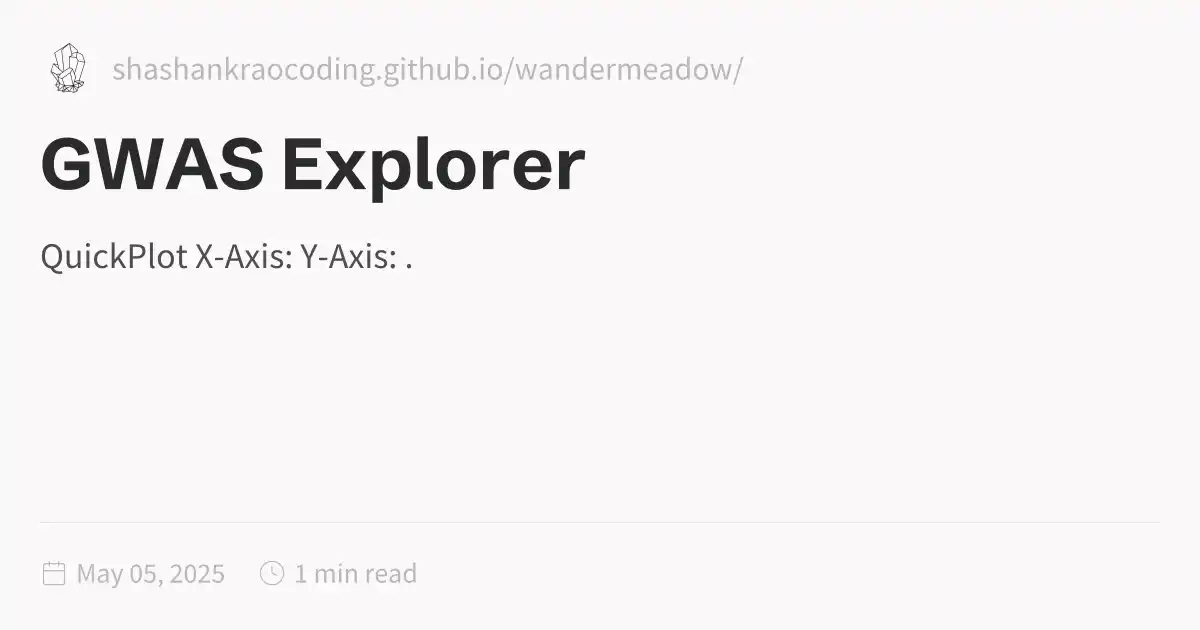
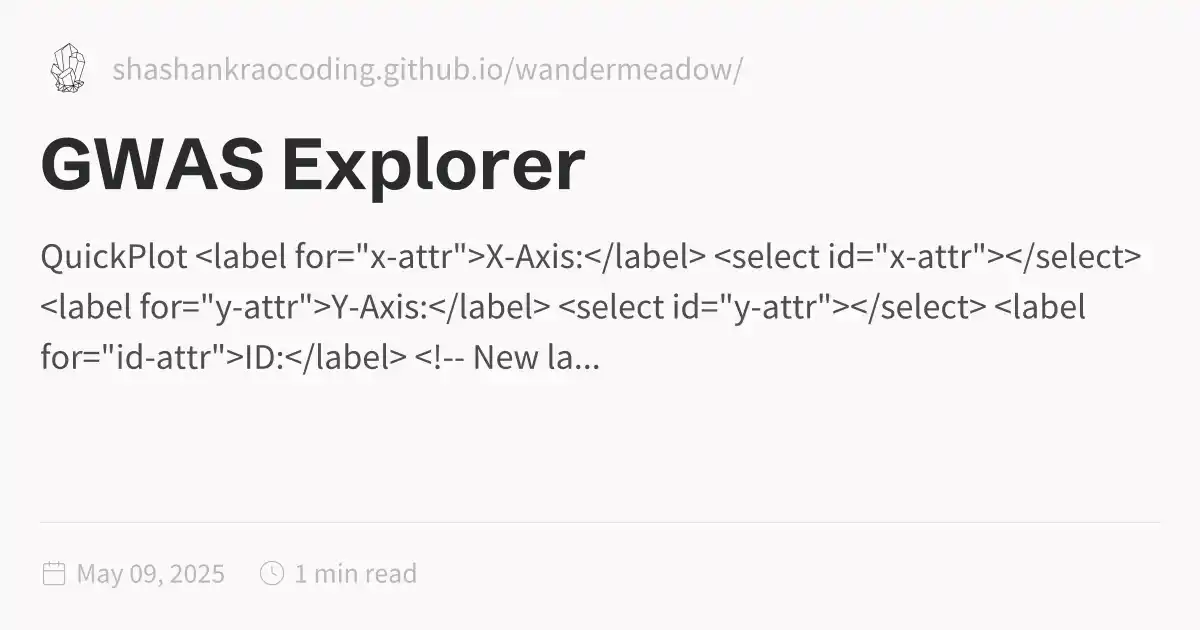
Update public folder - 2025-05-09\_857

Changed region(s): [[0.0308, 0.4524, 0.925, 0.5127], [0.0308, 0.5429, 0.4933, 0.6032], [0.1542, 0.3921, 0.9558, 0.4222]]

diff --git a/Projects/index.html b/Projects/index.html
@@ -116,6 +116,6 @@ pre:hover > .expand-button {
   padding: 0 12px;
   font-size: 14px;
 }
[2 lines of base64/hex data omitted]
 </script><script type="module">function f(i,e){if(!i)return;function r(o){o.target===this&&(o.preventDefault(),o.stopPropagation(),e())}function t(o){o.key.startsWith("Esc")&&(o.preventDefault(),e())}i?.addEventListener("click",r),window.addCleanup(()=>i?.removeEventListener("click",r)),document.addEventListener("keydown",t),window.addCleanup(()=>document.removeEventListener("keydown",t))}function y(i){for(;i.firstChild;)i.removeChild(i.firstChild)}var h=class{constructor(e,r){this.container=e;this.content=r;this.setupEventListeners(),this.setupNavigationControls(),this.resetTransform()}isDragging=!1;startPan={x:0,y:0};currentPan={x:0,y:0};scale=1;MIN_SCALE=.5;MAX_SCALE=3;cleanups=[];setupEventListeners(){let e=this.onMouseDown.bind(this),r=this.onMouseMove.bind(this),t=this.onMouseUp.bind(this),o=this.resetTransform.bind(this);this.container.addEventListener("mousedown",e),document.addEventListener("mousemove",r),document.addEventListener("mouseup",t),window.addEventListener("resize",o),this.cleanups.push(()=>this.container.removeEventListener("mousedown",e),()=>document.removeEventListener("mousemove",r),()=>document.removeEventListener("mouseup",t),()=>window.removeEventListener("resize",o))}cleanup(){for(let e of this.cleanups)e()}setupNavigationControls(){let e=document.createElement("div");e.className="mermaid-controls";let r=this.createButton("+",()=>this.zoom(.1)),t=this.createButton("-",()=>this.zoom(-.1)),o=this.createButton("Reset",()=>this.resetTransform());e.appendChild(t),e.appendChild(o),e.appendChild(r),this.container.appendChild(e)}createButton(e,r){let t=document.createElement("button");return t.textContent=e,t.className="mermaid-control-button",t.addEventListener("click",r),window.addCleanup(()=>t.removeEventListener("click",r)),t}onMouseDown(e){e.button===0&&(this.isDragging=!0,this.startPan={x:e.clientX-this.currentPan.x,y:e.clientY-this.currentPan.y},this.container.style.cursor="grabbing")}onMouseMove(e){this.isDragging&&(e.preventDefault(),this.currentPan={x:e.clientX-this.startPan.x,y:e.clientY-this.startPan.y},this.updateTransform())}onMouseUp(){this.isDragging=!1,this.container.style.cursor="grab"}zoom(e){let r=Math.min(Math.max(this.scale+e,this.MIN_SCALE),this.MAX_SCALE),t=this.content.getBoundingClientRect(),o=t.width/2,n=t.height/2,c=r-this.scale;this.currentPan.x-=o*c,this.currentPan.y-=n*c,this.scale=r,this.updateTransform()}updateTransform(){this.content.style.transform=`translate(${this.currentPan.x}px, ${this.currentPan.y}px) scale(${this.scale})`}resetTransform(){this.scale=1;let e=this.content.querySelector("svg");this.currentPan={x:e.getBoundingClientRect().width/2,y:e.getBoundingClientRect().height/2},this.updateTransform()}},C=["--secondary","--tertiary","--gray","--light","--lightgray","--highlight","--dark","--darkgray","--codeFont"],E;document.addEventListener("nav",async()=>{let e=document.querySelector(".center").querySelectorAll("code.mermaid");if(e.length===0)return;E||=await import("https://cdnjs.cloudflare.com/ajax/libs/mermaid/11.4.0/mermaid.esm.min.mjs");let r=E.default,t=new WeakMap;for(let n of e)t.set(n,n.innerText);async function o(){for(let s of e){s.removeAttribute("data-processed");let a=t.get(s);a&&(s.innerHTML=a)}let n=C.reduce((s,a)=>(s[a]=window.getComputedStyle(document.documentElement).getPropertyValue(a),s),{}),c=document.documentElement.getAttribute("saved-theme")==="dark";r.initialize({startOnLoad:!1,securityLevel:"loose",theme:c?"dark":"base",themeVariables:{fontFamily:n["--codeFont"],primaryColor:n["--light"],primaryTextColor:n["--darkgray"],primaryBorderColor:n["--tertiary"],lineColor:n["--darkgray"],secondaryColor:n["--secondary"],tertiaryColor:n["--tertiary"],clusterBkg:n["--light"],edgeLabelBackground:n["--highlight"]}}),await r.run({nodes:e})}await o(),document.addEventListener("themechange",o),window.addCleanup(()=>document.removeEventListener("themechange",o));for(let n=0;n<e.length;n++){let v=function(){let g=l.querySelector("#mermaid-space"),m=l.querySelector(".mermaid-content");if(!m)return;y(m);let w=c.querySelector("svg").cloneNode(!0);m.appendChild(w),l.classList.add("active"),g.style.cursor="grab",u=new h(g,m)},M=function(){l.classList.remove("active"),u?.cleanup(),u=null},c=e[n],s=c.parentElement,a=s.querySelector(".clipboard-button"),d=s.querySelector(".expand-button"),p=window.getComputedStyle(a),L=a.offsetWidth+parseFloat(p.marginLeft||"0")+parseFloat(p.marginRight||"0");d.style.right=`calc(${L}px + 0.3rem)`,s.prepend(d);let l=s.querySelector("#mermaid-container");if(!l)return;let u=null;d.addEventListener("click",v),f(l,M),window.addCleanup(()=>{u?.cleanup(),d.removeEventListener("click",v)})}});
 </script><script src="https://cdn.jsdelivr.net/npm/katex@0.16.11/dist/contrib/copy-tex.min.js" type="application/javascript"></script><script src="../postscript.js" type="module"></script></html>

diff --git a/Projects/GWAS-Explorer.html b/Projects/GWAS-Explorer.html
@@ -1,5 +1,5 @@
 <!DOCTYPE html>
-<html lang="en"><head><title>GWAS Explorer</title><meta charset="utf-8"/><link rel="preconnect" href="https://fonts.googleapis.com"/><link rel="preconnect" href="https://fonts.gstatic.com"/><link rel="stylesheet" href="https://fonts.googleapis.com/css2?family=Schibsted Grotesk:wght@400;700&amp;family=Source Sans Pro:ital,wght@0,400;0,600;1,400;1,600&amp;family=IBM Plex Mono:wght@400;600&amp;display=swap"/><link rel="preconnect" href="https://cdnjs.cloudflare.com" crossorigin="anonymous"/><meta name="viewport" content="width=device-width, initial-scale=1.0"/><meta name="og:site_name" content="Wander Meadow"/><meta property="og:title" content="GWAS Explorer"/><meta property="og:type" content="website"/><meta name="twitter:card" content="summary_large_image"/><meta name="twitter:title" content="GWAS Explorer"/><meta name="twitter:description" content="QuickPlot X-Axis: Y-Axis: ."/><meta property="og:description" content="QuickPlot X-Axis: Y-Axis: ."/><meta property="og:image:alt" content="QuickPlot X-Axis: Y-Axis: ."/><meta property="twitter:domain" content="shashankraocoding.github.io/wandermeadow/"/><meta property="og:url" content="https://shashankraocoding.github.io/wandermeadow/Projects/GWAS-Explorer"/><meta property="twitter:url" content="https://shashankraocoding.github.io/wandermeadow/Projects/GWAS-Explorer"/><link rel="icon" href="../static/icon.png"/><meta name="description" content="QuickPlot X-Axis: Y-Axis: ."/><meta name="generator" content="Quartz"/><link href="../index.css" rel="stylesheet" type="text/css" spa-preserve/><style>.expand-button {
+<html lang="en"><head><title>GWAS Explorer</title><meta charset="utf-8"/><link rel="preconnect" href="https://fonts.googleapis.com"/><link rel="preconnect" href="https://fonts.gstatic.com"/><link rel="stylesheet" href="https://fonts.googleapis.com/css2?family=Schibsted Grotesk:wght@400;700&amp;family=Source Sans Pro:ital,wght@0,400;0,600;1,400;1,600&amp;family=IBM Plex Mono:wght@400;600&amp;display=swap"/><link rel="preconnect" href="https://cdnjs.cloudflare.com" crossorigin="anonymous"/><meta name="viewport" content="width=device-width, initial-scale=1.0"/><meta name="og:site_name" content="Wander Meadow"/><meta property="og:title" content="GWAS Explorer"/><meta property="og:type" content="website"/><meta name="twitter:card" content="summary_large_image"/><meta name="twitter:title" content="GWAS Explorer"/><meta name="twitter:description" content="QuickPlot &lt;label for=&quot;x-attr&quot;>X-Axis:&lt;/label> &lt;select id=&quot;x-attr&quot;>&lt;/select> &lt;label for=&quot;y-attr&quot;>Y-Axis:&lt;/label> &lt;select id=&quot;y-attr&quot;>&lt;/select> &lt;label for=&quot;id-attr&quot;>ID:&lt;/label> &lt;!-- New la..."/><meta property="og:description" content="QuickPlot &lt;label for=&quot;x-attr&quot;>X-Axis:&lt;/label> &lt;select id=&quot;x-attr&quot;>&lt;/select> &lt;label for=&quot;y-attr&quot;>Y-Axis:&lt;/label> &lt;select id=&quot;y-attr&quot;>&lt;/select> &lt;label for=&quot;id-attr&quot;>ID:&lt;/label> &lt;!-- New la..."/><meta property="og:image:alt" content="QuickPlot &lt;label for=&quot;x-attr&quot;>X-Axis:&lt;/label> &lt;select id=&quot;x-attr&quot;>&lt;/select> &lt;label for=&quot;y-attr&quot;>Y-Axis:&lt;/label> &lt;select id=&quot;y-attr&quot;>&lt;/select> &lt;label for=&quot;id-attr&quot;>ID:&lt;/label> &lt;!-- New la..."/><meta property="twitter:domain" content="shashankraocoding.github.io/wandermeadow/"/><meta property="og:url" content="https://shashankraocoding.github.io/wandermeadow/Projects/GWAS-Explorer"/><meta property="twitter:url" content="https://shashankraocoding.github.io/wandermeadow/Projects/GWAS-Explorer"/><link rel="icon" href="../static/icon.png"/><meta name="description" content="QuickPlot &lt;label for=&quot;x-attr&quot;>X-Axis:&lt;/label> &lt;select id=&quot;x-attr&quot;>&lt;/select> &lt;label for=&quot;y-attr&quot;>Y-Axis:&lt;/label> &lt;select id=&quot;y-attr&quot;>&lt;/select> &lt;label for=&quot;id-attr&quot;>ID:&lt;/label> &lt;!-- New la..."/><meta name="generator" content="Quartz"/><link href="../index.css" rel="stylesheet" type="text/css" spa-preserve/><style>.expand-button {
   position: absolute;
   display: flex;
   float: right;
@@ -116,17 +116,25 @@ pre:hover > .expand-button {
   padding: 0 12px;
   font-size: 14px;
 }
[2 lines of base64/hex data omitted]
     <h1 id="quickplot">QuickPlot<a role="anchor" aria-hidden="true" tabindex="-1" data-no-popover="true" href="#quickplot" class="internal"><svg width="18" height="18" viewBox="0 0 24 24" fill="none" stroke="currentColor" stroke-width="2" stroke-linecap="round" stroke-linejoin="round"><path d="M10 13a5 5 0 0 0 7.54.54l3-3a5 5 0 0 0-7.07-7.07l-1.72 1.71"></path><path d="M14 11a5 5 0 0 0-7.54-.54l-3 3a5 5 0 0 0 7.07 7.07l1.71-1.71"></path></svg></a></h1>
     <input type="file" id="file-input"/>
-    <label for="x-attr">X-Axis:</label>
-    <select id="x-attr"></select>
-    <label for="y-attr">Y-Axis:</label>
-    <select id="y-attr"></select>
-    <div id="message"></div>
-    <pre id="file-content"></pre>
-    <canvas id="myChart" width="400" height="200"></canvas>
-    <script src="https://shashankraocoding.github.io/wandermeadow/Website-Resources/Javascript/quickPlot.js"></script>
+<pre><code>&lt;label for=&quot;x-attr&quot;>X-Axis:&lt;/label>
+&lt;select id=&quot;x-attr&quot;>&lt;/select>
+
+&lt;label for=&quot;y-attr&quot;>Y-Axis:&lt;/label>
+&lt;select id=&quot;y-attr&quot;>&lt;/select>
+
+&lt;label for=&quot;id-attr&quot;>ID:&lt;/label> &lt;!-- New label for the ID selector -->
+&lt;select id=&quot;id-attr&quot;>&lt;/select> &lt;!-- New selector for ID -->
+
+&lt;div id=&quot;message&quot;>&lt;/div>
+&lt;pre id=&quot;file-content&quot;>&lt;/pre>
+
+&lt;canvas id=&quot;myChart&quot; width=&quot;400&quot; height=&quot;200&quot;>&lt;/canvas>
+
+&lt;script src=&quot;https://shashankraocoding.github.io/wandermeadow/Website-Resources/Javascript/quickPlot.js&quot;>&lt;/script>
+</code></pre>
 </div></article><hr/><div class="page-footer"></div></div><div class="right sidebar"><div class="graph"><h3>Graph View</h3><div class="graph-outer"><div class="graph-container" data-cfg="{&quot;drag&quot;:true,&quot;zoom&quot;:true,&quot;depth&quot;:1,&quot;scale&quot;:1.1,&quot;repelForce&quot;:0.5,&quot;centerForce&quot;:0.3,&quot;linkDistance&quot;:30,&quot;fontSize&quot;:0.6,&quot;opacityScale&quot;:1,&quot;showTags&quot;:true,&quot;removeTags&quot;:[],&quot;focusOnHover&quot;:false,&quot;enableRadial&quot;:false}"></div><button class="global-graph-icon" aria-label="Global Graph"><svg version="1.1" xmlns="http://www.w3.org/2000/svg" xmlns:xlink="http://www.w3.org/1999/xlink" x="0px" y="0px" viewBox="0 0 55 55" fill="currentColor" xml:space="preserve"><path d="M49,0c-3.309,0-6,2.691-6,6c0,1.035,0.263,2.009,0.726,2.86l-9.829,9.829C32.542,17.634,30.846,17,29,17
                 s-3.542,0.634-4.898,1.688l-7.669-7.669C16.785,10.424,17,9.74,17,9c0-2.206-1.794-4-4-4S9,6.794,9,9s1.794,4,4,4
                 c0.74,0,1.424-0.215,2.019-0.567l7.669,7.669C21.634,21.458,21,23.154,21,25s0.634,3.542,1.688,4.897L10.024,42.562

diff --git a/Website-Resources/Javascript/quickPlot.js b/Website-Resources/Javascript/quickPlot.js
@@ -1,67 +1,80 @@
 const script = document.createElement('script');
 script.src = "https://cdn.jsdelivr.net/npm/chart.js";
 document.head.appendChild(script);
-const fileInput = document.getElementById(`file-input`);
-const fileContentDisplay = document.getElementById(`file-content`);
-const messageDisplay = document.getElementById(`message`);
-const xAttrSelect = document.getElementById(`x-attr`);
-const yAttrSelect = document.getElementById(`y-attr`);
+
+const fileInput = document.getElementById('file-input');
+const fileContentDisplay = document.getElementById('file-content');
+const messageDisplay = document.getElementById('message');
+const xAttrSelect = document.getElementById('x-attr');
+const yAttrSelect = document.getElementById('y-attr');
+const idAttrSelect = document.getElementById('id-attr'); // New selector for ID
 let chart = null;
 let SNPData = {};
 let attributes = [];
-fileInput.addEventListener(`change`, handleFileSelection);
-xAttrSelect.addEventListener(`change`, renderChart);
-yAttrSelect.addEventListener(`change`, renderChart);
+
+fileInput.addEventListener('change', handleFileSelection);
+xAttrSelect.addEventListener('change', renderChart);
+yAttrSelect.addEventListener('change', renderChart);
+idAttrSelect.addEventListener('change', renderChart); // Listen for changes on the ID selector
+
 function handleFileSelection(event) {
     const file = event.target.files[0];
-    fileContentDisplay.textContent = ``;
-    messageDisplay.textContent = ``;
+    fileContentDisplay.textContent = '';
+    messageDisplay.textContent = '';
     if (!file) {
-        showMessage(`No file selected. Please choose a file.`, `error`);
+        showMessage('No file selected. Please choose a file.', 'error');
         return;
     }
-    if (!file.name.endsWith(`.tsv`)) {
-        showMessage(`Unsupported file type. Please select a TSV file.`, `error`);
+    if (!file.name.endsWith('.tsv')) {
+        showMessage('Unsupported file type. Please select a TSV file.', 'error');
         return;
     }
     const reader = new FileReader();
     reader.onload = () => process(reader.result);
-    reader.onerror = () => showMessage(`Error reading the file. Please try again.`, `error`);
+    reader.onerror = () => showMessage('Error reading the file. Please try again.', 'error');
     reader.readAsText(file);
 }
+
 function showMessage(message, type = 'info') {
     messageDisplay.textContent = message;
-    messageDisplay.style.color = type === `error` ? `red` : `green`;
+    messageDisplay.style.color = type === 'error' ? 'red' : 'green';
 }
-function process(datatext) {
-const datalines = datatext.split('\n').filter(line => line.trim().length > 0);
-attributes = datalines[0].split('\t');
 
-// Use map to create SNPData
-SNPData = datalines.slice(1).map(line => {
-    const lineparts = line.split('\t');
-    return Object.fromEntries(
-        attributes.map((attr, idx) => [attr, lineparts[idx]])
-    );
-});
-populateAttributeSelectors();
-renderChart(); // Initial chart
-showMessage('Successfully loaded data. Choose attributes to plot.', 'success');
-}
-function populateAttributeSelectors() {
-const createOptions = (select) => {
-    select.innerHTML = '';
-    attributes.forEach(attr => {
-        const option = new Option(attr, attr);
-        select.add(option);
+function process(datatext) {
+    const datalines = datatext.split('\n').filter(line => line.trim().length > 0);
+    attributes = datalines[0].split('\t');
+
+    // Use map to create SNPData
+    SNPData = datalines.slice(1).map(line => {
+        const lineparts = line.split('\t');
+        return Object.fromEntries(
+            attributes.map((attr, idx) => [attr, lineparts[idx]])
+        );
     });
-    select.value = attributes[0];
-};
-[xAttrSelect, yAttrSelect].forEach(createOptions);
+
+    populateAttributeSelectors();
+    renderChart(); // Initial chart
+    showMessage('Successfully loaded data. Choose attributes to plot.', 'success');
 }
+
+function populateAttributeSelectors() {
+    const createOptions = (select) => {
+        select.innerHTML = '';
+        attributes.forEach(attr => {
+            const option = new Option(attr, attr);
+            select.add(option);
+        });
+        select.value = attributes[0];
+    };
+
+    [xAttrSelect, yAttrSelect, idAttrSelect].forEach(createOptions); // Add ID selector as well
+}
+
 function renderChart() {
     const xAttr = xAttrSelect.value;
     const yAttr = yAttrSelect.value;
+    const idAttr = idAttrSelect.value; // Get selected ID attribute
+
     const chartData = {
         datasets: [{
             label: `${yAttr} vs ${xAttr}`,
@@ -74,12 +87,14 @@ function renderChart() {
     };
 
     for (let key in SNPData) {
-    const entry = SNPData[key];
-    const xVal = parseFloat(entry[xAttr]);
-    const yVal = parseFloat(entry[yAttr]);
-        const rsid = entry.rsid || '';
-    chartData.datasets[0].data.push({ x: xVal, y: yVal, rsid });
+        const entry = SNPData[key];
+        const xVal = parseFloat(entry[xAttr]);
+        const yVal = parseFloat(entry[yAttr]);
+        const id = entry[idAttr] || ''; // Get the ID value
+
+        chartData.datasets[0].data.push({ x: xVal, y: yVal, id });
     }
+
     if (chart) chart.destroy();
     const ctx = document.getElementById('myChart').getContext('2d');
     chart = new Chart(ctx, {
@@ -91,7 +106,7 @@ function renderChart() {
                     callbacks: {
                         label: function(context) {
                             const point = context.raw;
-                            return `rsid: ${point.rsid}, ${xAttr}: ${point.x}, ${yAttr}: ${point.y}`;
+                            return `ID: ${point.id}, ${xAttr}: ${point.x}, ${yAttr}: ${point.y}`;
                         }
                     }
                 }
